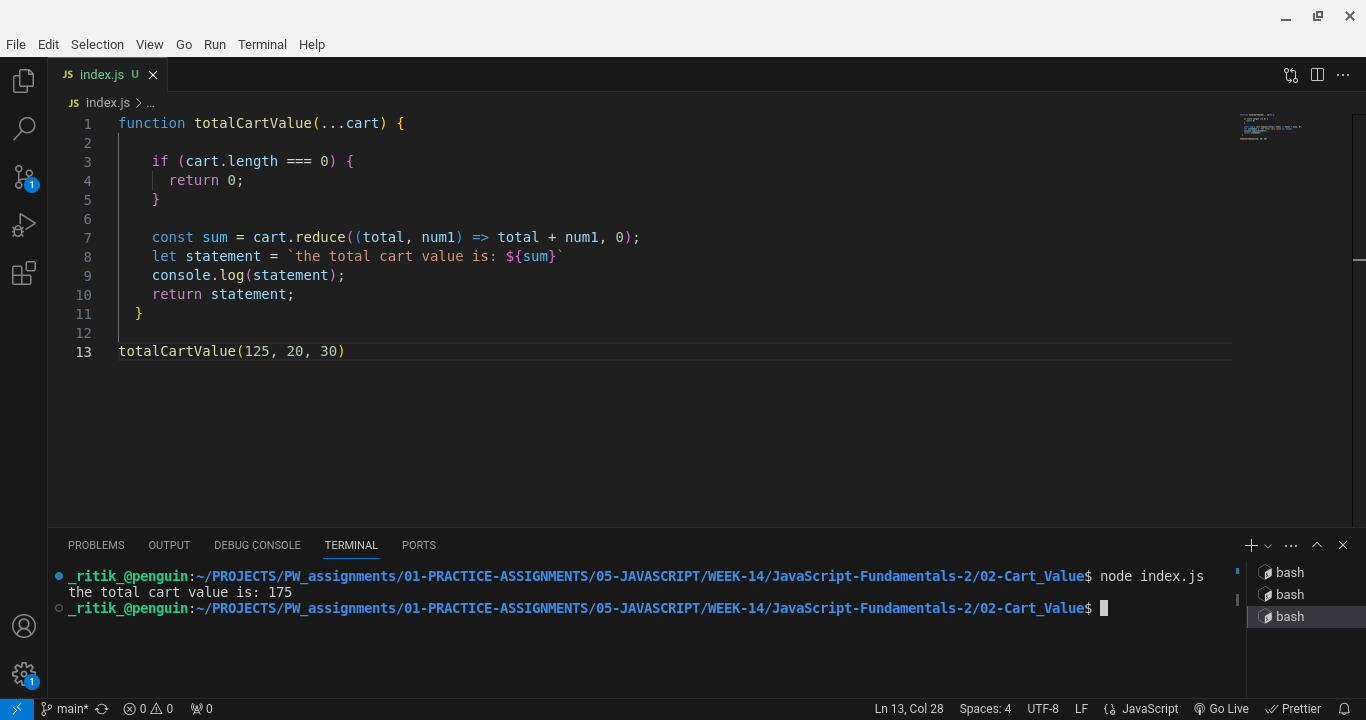
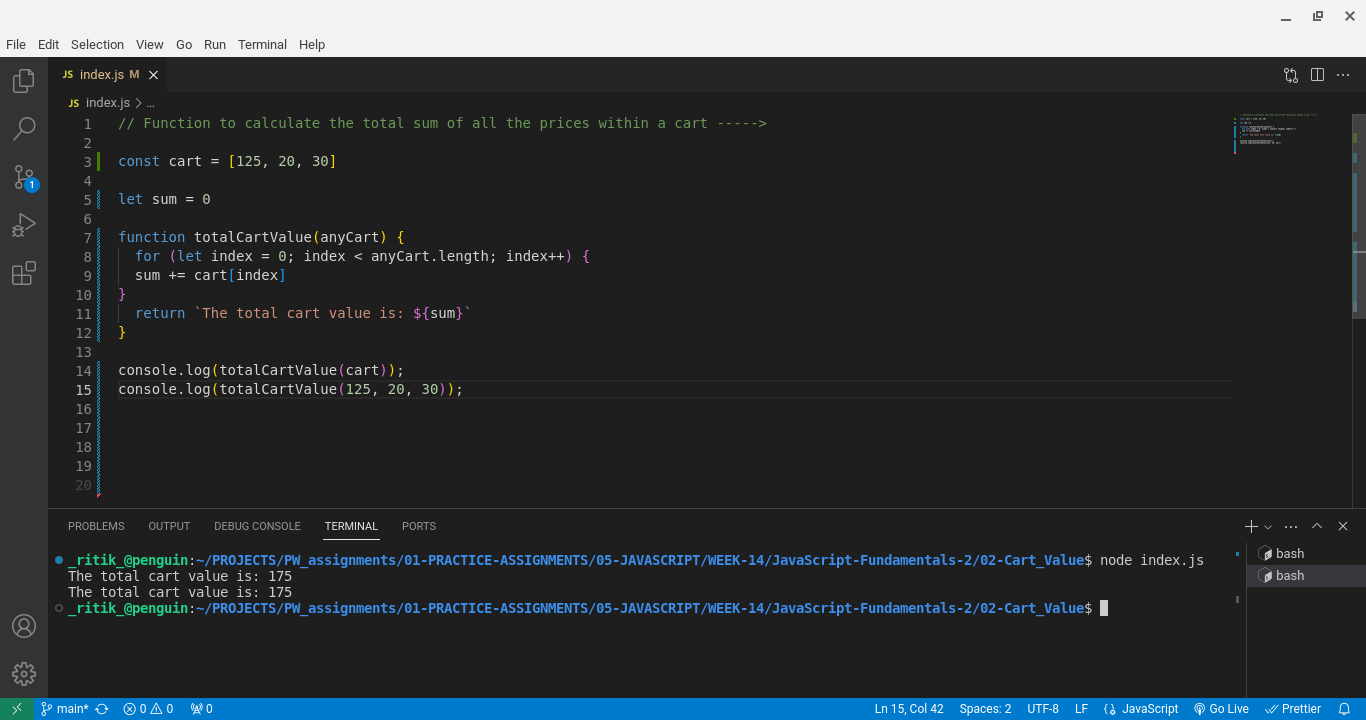
modified

diff --git a/01-PRACTICE-ASSIGNMENTS/05-JAVASCRIPT/WEEK-14/JavaScript-Fundamentals-2/02-Cart_Value/index.js b/01-PRACTICE-ASSIGNMENTS/05-JAVASCRIPT/WEEK-14/JavaScript-Fundamentals-2/02-Cart_Value/index.js
@@ -1,16 +1,19 @@
 // Function to calculate the total sum of all the prices within a cart ----->
 
+const cart = [125, 20, 30]
 
-function totalCartValue(...cart) {
+let sum = 0
 
-    if (cart.length === 0){
-      return 0;
-    }
+function totalCartValue(anyCart) {
+  for (let index = 0; index < anyCart.length; index++) {
+  sum += cart[index]
+}
+  return `The total cart value is: ${sum}`
+}
 
-    const sum = cart.reduce((total, num1) => total + num1, 0);
-    let statement = `the total cart value is: ${sum}`
-    console.log(statement);
-    return statement;
-  }
-  
-totalCartValue(125, 20, 30)
+console.log(totalCartValue(cart));
+console.log(totalCartValue(125, 20, 30));
+
+
+
+
